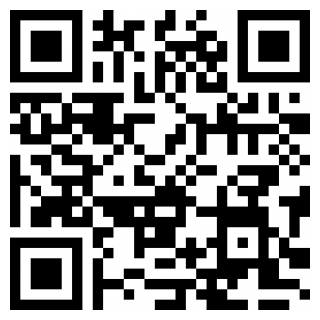
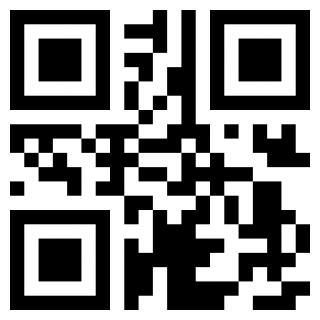
request qr

diff --git a/src/AppBundle/Controller/StudentsAttendanceController.php b/src/AppBundle/Controller/StudentsAttendanceController.php
@@ -50,6 +50,10 @@ class StudentsAttendanceController extends FOSRestController
     public function postAction(Request $request)
     {
 
+        $qr = $request->get('qr');
+        $myQr = $this->getDoctrine()->getRepository('AppBundle:QR')->find(1)->getQr();
+        if($qr == $myQr)
+        {
         $user = $this->getDoctrine()->getRepository('AppBundle:User')->find($request->get('user_id'));
         $arrivalTime = new \DateTime('now');
         $attendanceTime = $user->getTrack()->getAttendanceTime();
@@ -91,5 +95,10 @@ class StudentsAttendanceController extends FOSRestController
         $em->persist($data);
         $em->flush();
         return new View($data, Response::HTTP_OK);
+    }
+    else{
+        return new View("Wrong QR Code", Response::HTTP_NOT_FOUND);
+
+    }
     }
 }

diff --git a/src/AppBundle/Controller/QrController.php b/src/AppBundle/Controller/QrController.php
@@ -3,6 +3,7 @@
 namespace AppBundle\Controller;
 
 
+use AppBundle\Entity\QR;
 use FOS\RestBundle\Controller\Annotations as Rest;
 use FOS\RestBundle\Controller\FOSRestController;
 use Symfony\Component\HttpFoundation\Request;
@@ -23,9 +24,15 @@ class QrController extends FOSRestController
      */
     public function getAction()
     {
+        $text = 'ITIOpenSOURCE';
 
+        $qr = new QR();
+        $qr->setQr($text);
+        $em = $this->getDoctrine()->getManager();
+        $em->persist($qr);
+        $em->flush();
         // Create a QR code
-        $qrCode = new QrCode('Life is too short to be generating QR codes');
+        $qrCode = new QrCode($text);
         $qrCode->setSize(300);
 
 
